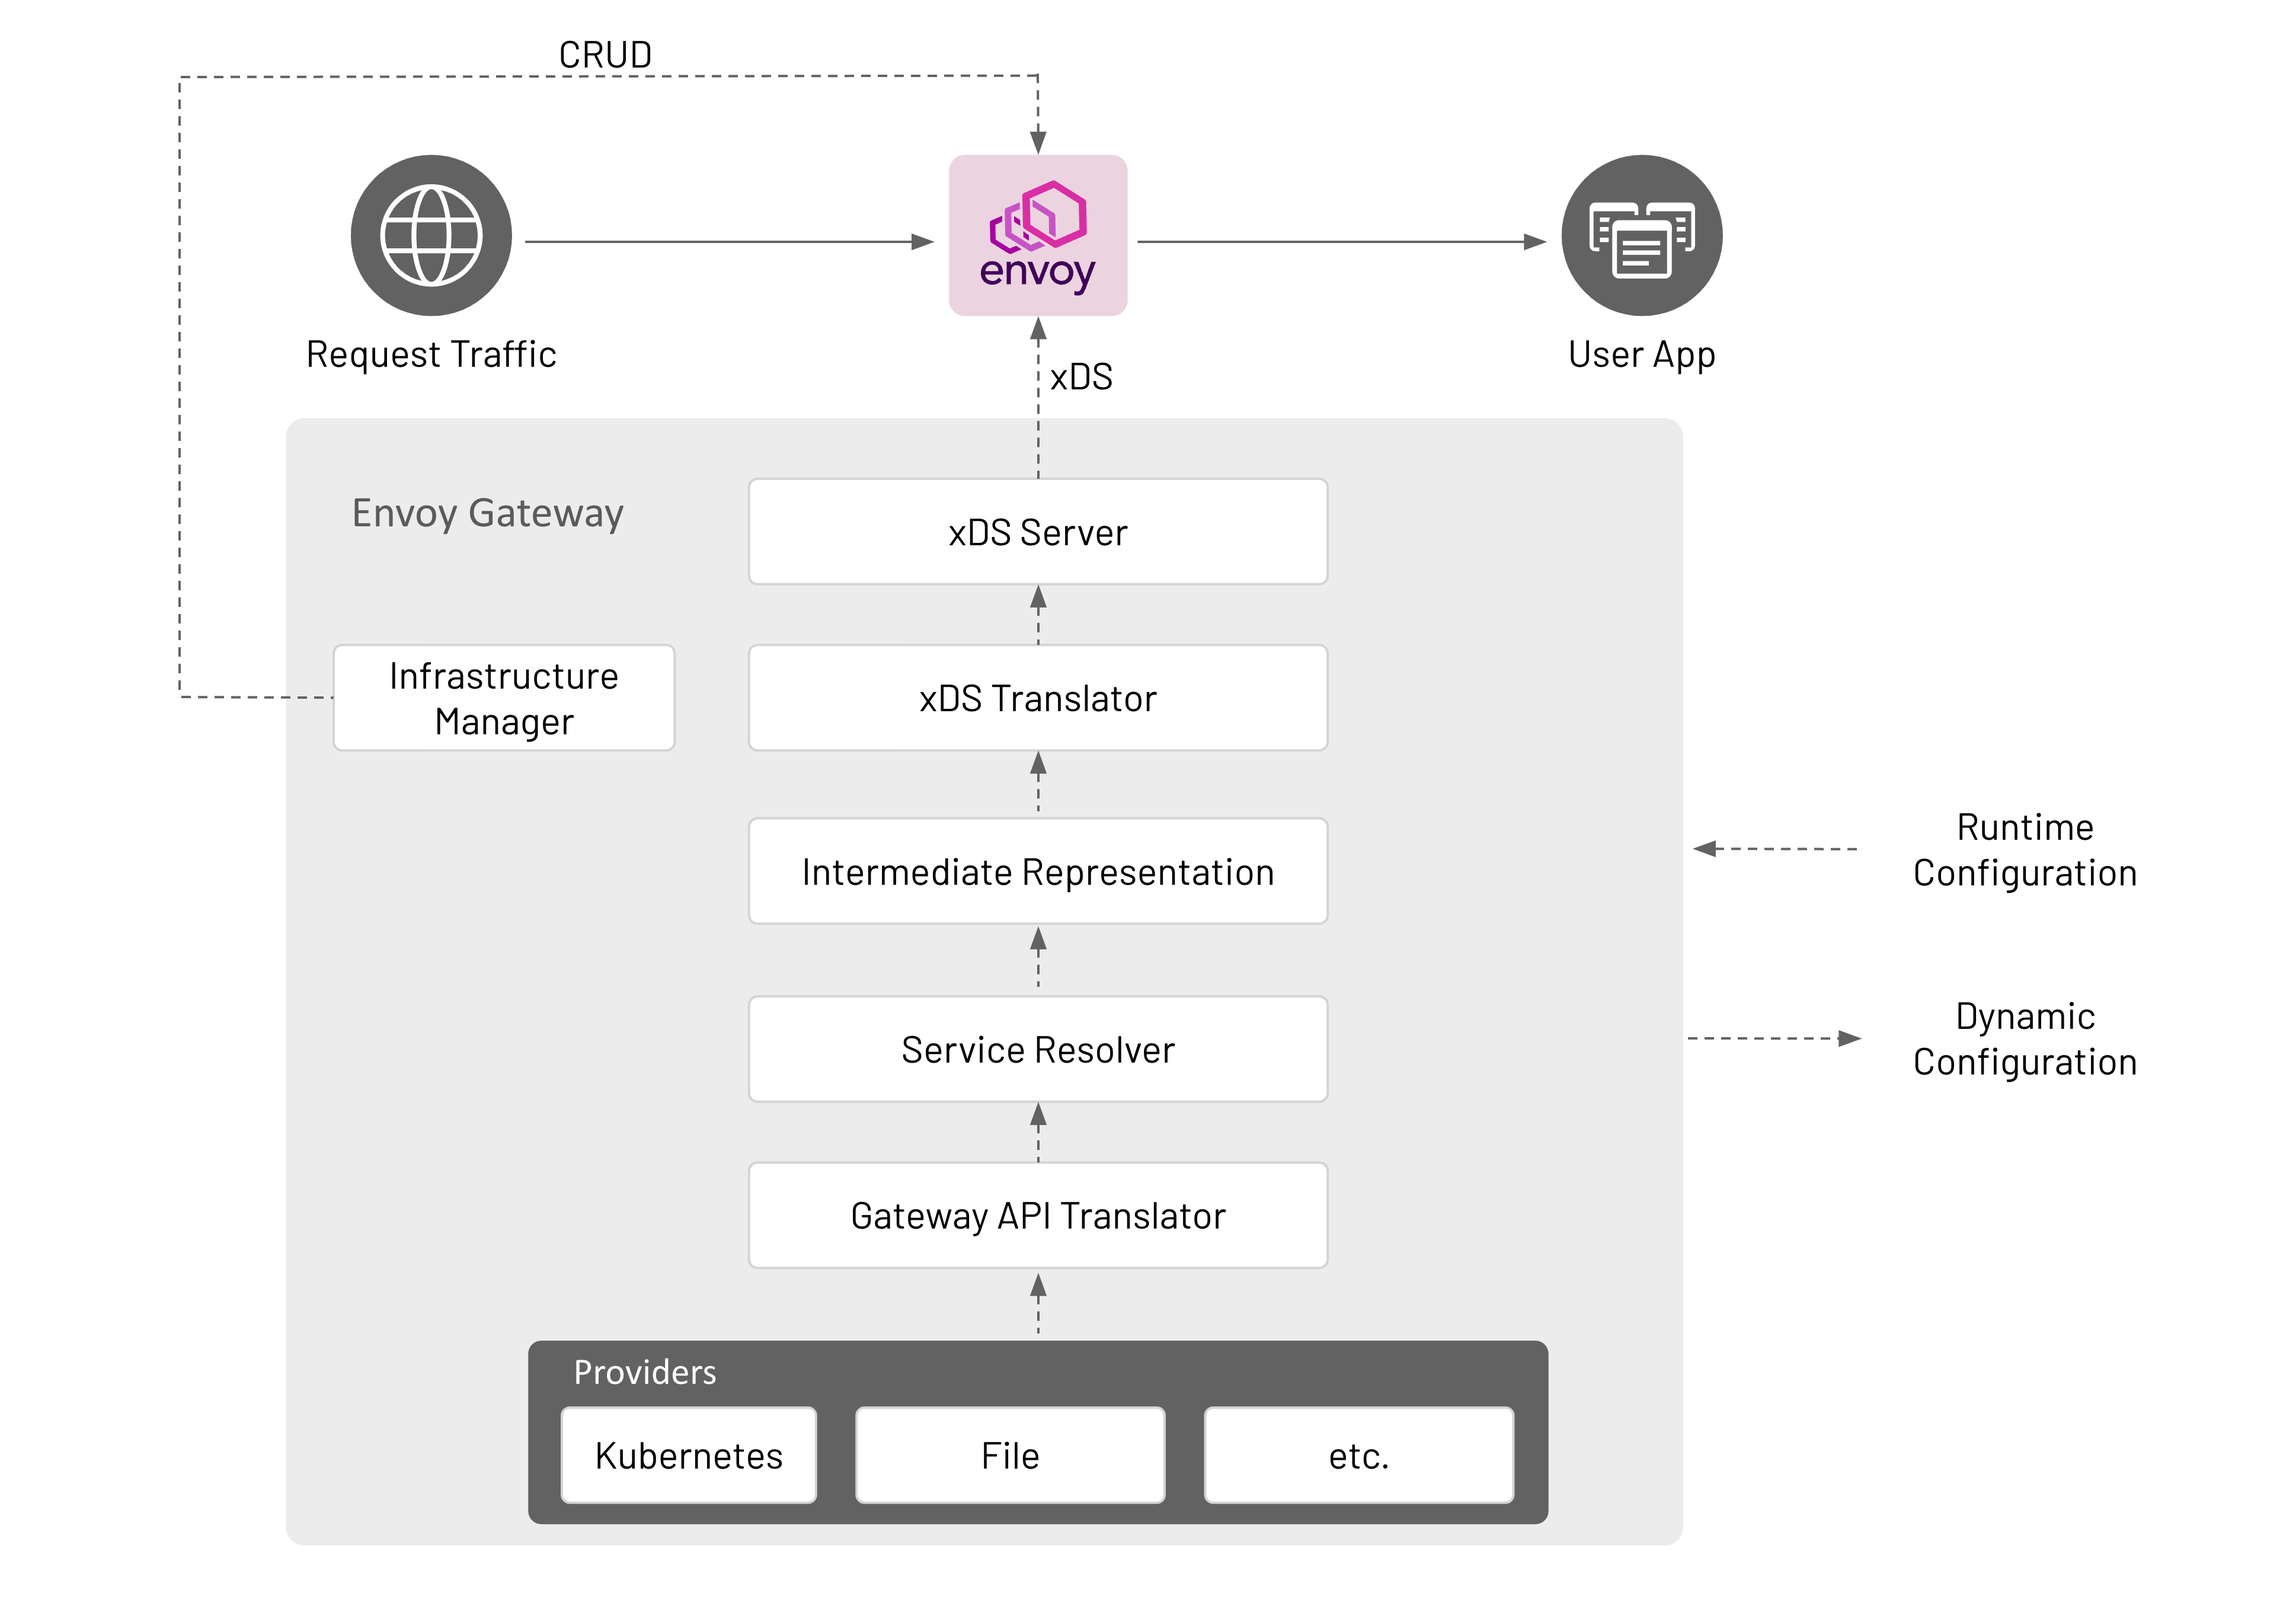
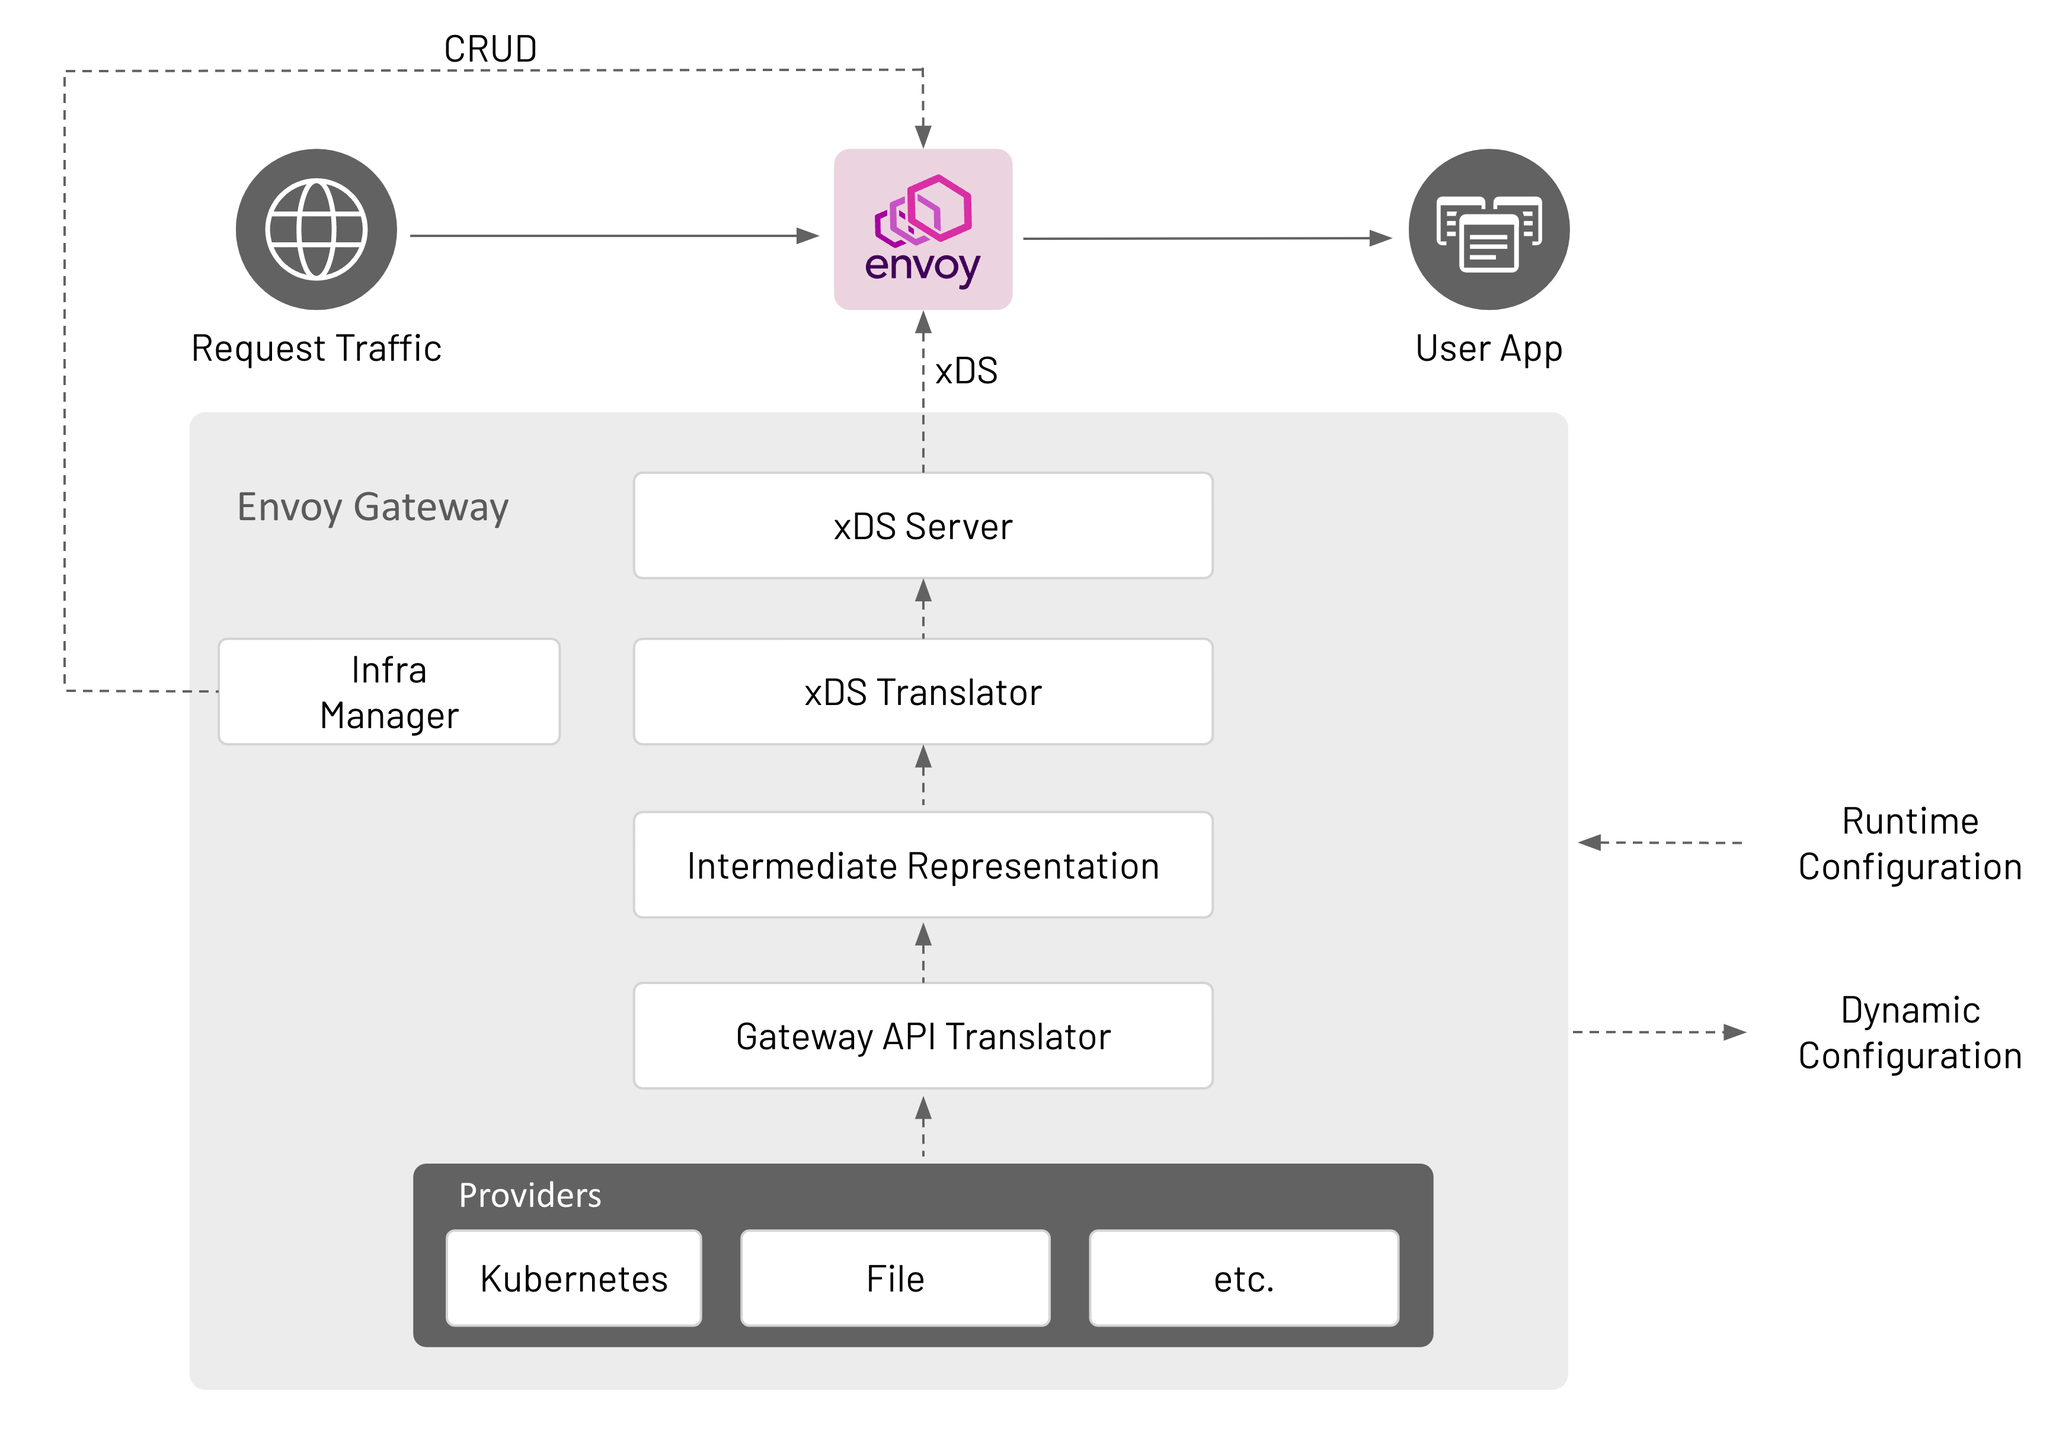
Resolves Feedback from Arko

diff --git a/docs/design/SYSTEM_DESIGN.md b/docs/design/SYSTEM_DESIGN.md
@@ -21,15 +21,9 @@ Envoy Gateway is configured statically at runtime and the managed data plane is 
 [Gateway API][gw_api] objects.
 
 #### Static Configuration
-This is the configuration used to configure various internal aspects of Envoy Gateway at runtime. There are three,
-__mutually exclusive__ options for defining static configuration:
-
-* A configuration file.
-* Command-line (CLI) arguments
-* Environment variables
-
-These options are evaluated in the order listed above. See the [configuration](../CONFIG.md) guide for additional
-details.
+This is the configuration used to configure various internal aspects of Envoy Gateway at runtime. Currently, Envoy
+Gateway only supports runtime configuration through a configuration file. See the [configuration](../CONFIG.md) guide
+for additional details.
 
 #### Dynamic Configuration
 Dynamic configuration manages the data plane through [Gateway API][gw_api] objects, e.g. Gateway, HTTPRoute, etc. and
@@ -52,32 +46,20 @@ future as Envoy Gateway use cases are better understood.
 
 ##### Kubernetes Provider
 * Uses Kubernetes-style controllers to reconcile managed Kubernetes resources.
-* Loads the Kubernetes [Infrastructure Manager](#infrastructure-manager) that uses the Kubernetes API to manage the
-  Envoy infrastructure, e.g. CRUD Service, Deployment, etc. resources.
-* Loads the Kubernetes Service Resolver which uses the `<service_name>.<namespace>.svc.cluster.local`
-  for SDS and builds EDS by resolving Endpoints from the Service.
+* Manages the data plane infrastructure through CRUD operations of Kubernetes resources.
+* Use Kubernetes for Service discovery.
 * Uses etcd (via Kubernetes API) to persist data.
 
 ##### File Provider
 
-* Watches files in a provided directory to manage Envoy.
-* Loads the Internal [Infrastructure Manager](#infrastructure-manager) to run the Envoy process by calling internal
-  APIs, e.g. `CreateDataPlane()`. __Note:__ A future Infrastructure Manager can be introduced for this provider, e.g.
-  Terraform, to provide a more comprehensive management solution.
-* Loads the DNS Service Resolver which uses the `gateway.envoyproxy.io/hostname: my-service.my-org.com` Service
-  annotation to form SDS and builds EDS by resolving the `my-service.my-org.com` FQDN. In the future, Envoy Gateway
-  can support additional providers for a more comprehensive non-Kubernetes service discovery solution.
+* Watches files in a directory to manage Envoy.
+* Manages the data plane infrastructure by calling internal APIs, e.g. `CreateDataPlane()`.
+* Use DNS for Service discovery.
 * If needed, the local filesystem is used to persist data.
 
 #### Intermediate Representation (IR)
 This is an internal data model that user facing APIs are translated into allowing for internal services & components to
 be decoupled.
-
-#### Service Resolver
-This Service Resolver preprocesses the IR resources and resolves the services into endpoints enabling precise
-load-balancing and resilience policies. For the Kubernetes provider, a controller watches EndpointSlice resources,
-converting Services to Endpoints, allowing Envoy proxy to skip kube-proxy load-balancing. This component is tied to the
-configured provider.
 
 #### Gateway API Translator
 The Gateway API Translator translates Gateway API resources to the Intermediate Representation (IR).
@@ -89,8 +71,8 @@ The xDS Translator translates the IR into xDS Resources.
 The xDS Server is a xDS gRPC Server based on [Go Control Plane][go_cp]. Go Control Plane implements the xDS Server
 Protocol and is responsible for using xDS to configure the data plane.
 
-#### Infrastructure Manager
-The Infrastructure Manager is a provider-specific component responsible for managing the following infrastructure:
+#### Infra Manager
+The Infra Manager is a provider-specific component responsible for managing the following infrastructure:
 
 * Data Plane - Manages all the infrastructure required to run the managed Envoy proxies. For example, CRUD Deployment,
   Service, etc. resources to run Envoy in a Kubernetes cluster.
@@ -112,18 +94,16 @@ The Infrastructure Manager is a provider-specific component responsible for mana
   * A Gateway `listener` corresponds to a proxy [Listener][listener].
 * An [HTTPRoute][hroute] resource corresponds to a proxy [Route][route].
   * Each [backendRef][be_ref] corresponds to a proxy [Cluster][cluster].
-* The goal is to make the Infrastructure Manager & Translator components extensible in the future. For now,
-  extensibility can be achieved using xDS support that Envoy Gateway will provide.
+* The goal is to make the Infra Manager & Translator components extensible in the future. For now, extensibility can be
+  achieved using xDS support that Envoy Gateway will provide.
 
 The draft for this document is [here][draft_design].
 
-[envoy]: https://www.envoyproxy.io/
 [gw_api]: https://gateway-api.sigs.k8s.io
 [gc]: https://gateway-api.sigs.k8s.io/concepts/api-overview/#gatewayclass
 [gw]: https://gateway-api.sigs.k8s.io/concepts/api-overview/#gateway
 [hroute]: https://gateway-api.sigs.k8s.io/concepts/api-overview/#httproute
 [troute]: https://gateway-api.sigs.k8s.io/concepts/api-overview/#tlsroute
-[gc_params]: https://gateway-api.sigs.k8s.io/v1alpha2/api-types/gatewayclass/#gatewayclass-parameters
 [go_cp]: https://github.com/envoyproxy/go-control-plane
 [grl]: https://www.envoyproxy.io/docs/envoy/latest/intro/arch_overview/other_features/global_rate_limiting
 [rls]: https://github.com/envoyproxy/ratelimit

diff --git a/docs/CONFIG.md b/docs/CONFIG.md
@@ -7,23 +7,8 @@ configuration details.
 This is the configuration used to configure various internal aspects of Envoy Gateway at runtime.
 
 #### Configuration File
-The configuration file is defined by the ControlPlaneSpec API type. At startup, Envoy Gateway searches for the
-configuration at "/etc/envoy-gateway/config.yaml". You can override the path to this file with `-c <path string>` or
-`--config-path <path string>`. For example:
-```shell
-envoy-gateway start -c config.yaml
-```
-
-#### CLI Arguments
-If no value is provided for a given option, a default value applies. If an option has sub-options, and any of these
-sub-options are not specified, a default value will also apply. For example, the `--providers.kubernetes` option will
-enable the Kubernetes provider, even though sub-options may exist. Once specified, this option sets/resets all the
-default values of the `--providers.kubernetes` sub-options.
-
-#### Environment Variables
-All static configuration is available through environment variables. The environment variable format is- uppercase the
-CLI argument, replace `-`  with `_`, and append `EG_`. For example, the `config-path` CLI argument is represented as
-`EG_CONFIG_PATH`. This format applies to all CLI arguments.
+The configuration file will be defined by the [control plane API][cp_api]. At startup, Envoy Gateway searches for the
+configuration at "/etc/envoy-gateway/config.yaml".
 
 ## Dynamic Config
 Dynamic configuration manages the data plane through [Gateway API][gw_api] objects, e.g. Gateway, HTTPRoute, etc.
@@ -56,12 +41,10 @@ spec:
         port: 8080
 ```
 
-Envoy Gateway should now be running with default configuration parameters. A config file, env vars, or CLI args could
-have been passed to the Envoy Gateway Deployment to change its default runtime behavior. For example, passing
-`--networkPublishing.type=LoadBalancer` causes Envoy Gateway to be exposed by a Kubernetes LoadBalancer service instead
-of the default ClusterIP service. When Envoy Gateway starts, it creates the required Kubernetes resources to provision
-the managed Envoy proxies dynamically by reconciling the GatewayClass and Gateway resources included in the all-in-one
-manifest.
+Envoy Gateway should now be running with default configuration parameters. A config file could have been passed to the
+Envoy Gateway Deployment to change its default runtime behavior. When Envoy Gateway starts, it creates the required
+Kubernetes resources to provision the managed Envoy proxies dynamically by reconciling the GatewayClass and Gateway
+resources included in the all-in-one manifest.
 
 All Envoy proxies are listening on port 8080 but are not routing any traffic to backend services until an HTTPRoute is
 created that references the Gateway. Since the GatewayClass did not specify a `parametersRef`, the Envoy proxies are
@@ -93,25 +76,13 @@ spec:
 When additional Gateways are created that reference the same GatewayClass, Envoy Gateway will merge the config from
 each Gateway and push it to the proxies. If another control plane is desired, the user repeats the same process above
 but with the modifications to the all-in-one manifest:
-- Update the Namespace from `envoy-gateway-system` to a namespace of your choosing, e.g. `my-ns`.
-- Update the namespace of all namespaced resources to match the newly created Namespace. 
-- Change the GatewayClass `controllerName` value, e.g. `gateway.envoyproxy.io/my-ns/gatewayclass-controller`.
-- Start the new control plane with a matching `className`. For example:
-  ```yaml
-  apiVersion: apps/v1
-  kind: Deployment
-  metadata:
-  name: my-eg
-  namespace: my-ns
-  ...
-    containers:
-      - args:
-        - start
-        - --className=gateway.envoyproxy.io/my-ns/gatewayclass-controller
-  ...
-   ```
+* Update the Namespace from `envoy-gateway-system` to a namespace of your choosing, e.g. `my-ns`.
+* Update the namespace of all namespaced resources to match the newly created Namespace.
+* Change the GatewayClass `controllerName` value, e.g. `gateway.envoyproxy.io/my-ns/gatewayclass-controller`.
+* Update the `className` value in the Envoy Gateway ConfigMap to match the GatewayClass `controllerName` value.
 
 To perform an in-place upgrade, update the image in the Envoy Gateway deployment resource. This causes the control plane
 to update the image used by the managed proxies.
 
 [gw_api]: https://gateway-api.sigs.k8s.io
+[cp_api]: https://github.com/envoyproxy/gateway/pull/95
